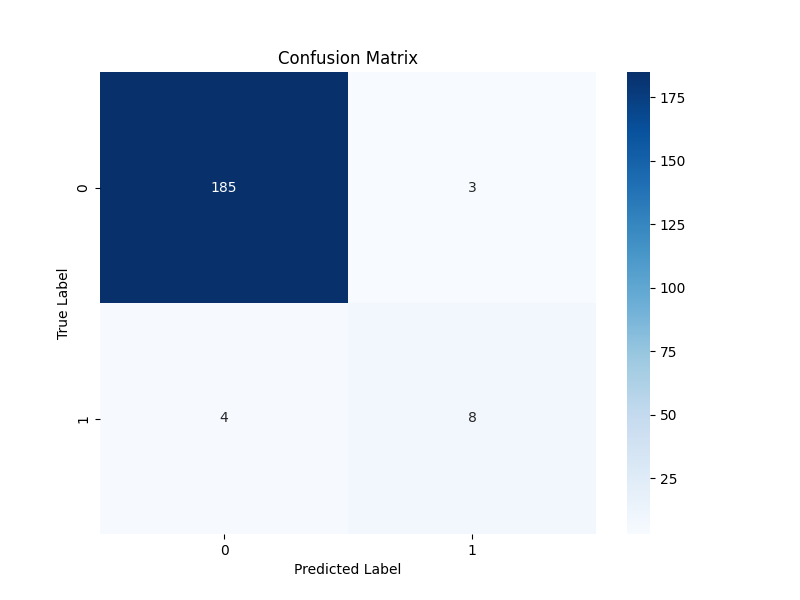
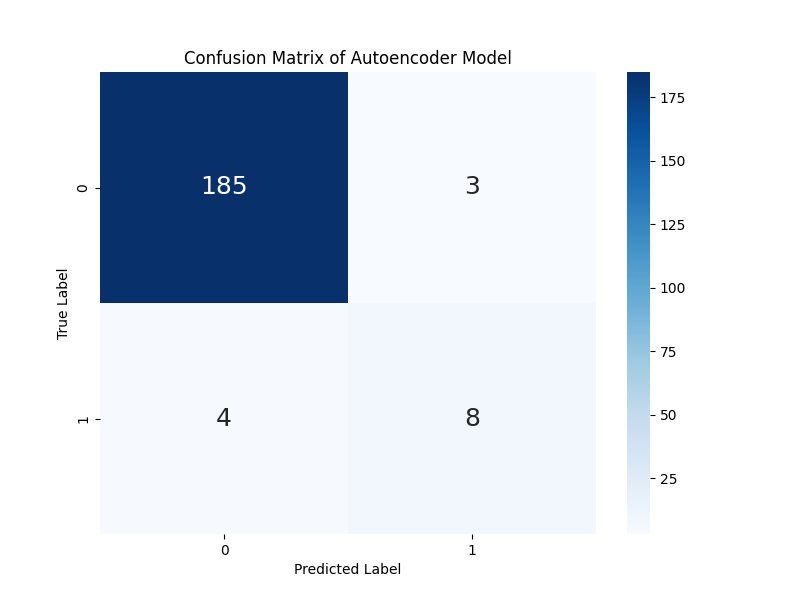
small correction

diff --git a/ModularizedClasses/ForDetecting/utils.py b/ModularizedClasses/ForDetecting/utils.py
@@ -6,24 +6,23 @@ import matplotlib.pyplot as plt
 import seaborn as sns
 from sklearn.metrics import confusion_matrix, f1_score, classification_report
 
-from sklearn.preprocessing import StandardScaler
+from sklearn.preprocessing import StandardScaler, RobustScaler
 
 def get_data(file_path, output_path=None):
     ext = os.path.splitext(file_path)[1].lower()
 
     if ext == ".csv":
+        # İlk 1KB’lık kısmı alıp ayırıcıyı tespit et
+        with open(file_path, 'r', encoding='utf-8') as f:
+            sample = f.read(1024)
+            try:
+                dialect = csv.Sniffer().sniff(sample)
+                sep = dialect.delimiter
+            except csv.Error:
+                sep = ','  # fallback
+
         try:
-            # İlk 1KB’lık kısmı alıp ayırıcıyı tespit et
-            with open(file_path, 'r', encoding='utf-8') as f:
-                sample = f.read(1024)
-                try:
-                    dialect = csv.Sniffer().sniff(sample)
-                    sep = dialect.delimiter
-                except csv.Error:
-                    sep = ','  # fallback
-
             df = pd.read_csv(file_path, encoding="utf-8", sep=sep)
-
         except UnicodeDecodeError:
             df = pd.read_csv(file_path, encoding="ISO-8859-9", sep=sep)
 
@@ -212,13 +211,19 @@ def set_detected_abnormalUsers(df, predictions, label="Test"):
 
 def print_results_generalized(total, normal, anomalies, reconstruction_error):
     print("\n" + "="*50)
-    print("🔍 ANOMALY DETECTION RESULTS BY LSTM AUTOENCODER")
+    print("🔍 ANOMALY DETECTION RESULTS BY AUTOENCODER")
     print("="*50)
     print(f"📊 Total Sequences: {total}")
     print(f"✅ Normal: {normal} ({(normal/total)*100:.2f}%)")
     print(f"⚠ Anomalies: {anomalies} ({(anomalies/total)*100:.2f}%)")
     print(f"📈 Average Error: {np.mean(reconstruction_error):.6f}")
     print("="*50 + "\n")
+    
+def create_windows(data, window_size):
+    windows = []
+    for i in range(len(data) - window_size + 1):
+        windows.append(data[i:i + window_size])
+    return np.array(windows)
     
 ##### THIS IS THE METHOD LOADS FILE AND PREPROCESSES IT #####
 def load_and_preprocess(input_path, output_parquet=None):
@@ -241,7 +246,7 @@ def behavior_analysis(df):
     return scaled_matrix, session_vectors
     
 ##### THIS METHOD DETECTS ABNORMAL USERS #####
-def model_runner(model, scaled_df, session_vectors, threshold=0.452005):
+def model_runner(model, scaled_df, session_vectors, threshold=0.452005, window_size=1):
     """
     Detect abnormal users using a trained autoencoder (LSTM or standard).
     Args:
@@ -262,9 +267,13 @@ def model_runner(model, scaled_df, session_vectors, threshold=0.452005):
         raise ValueError(f"Missing features. Required: {expected_features}")
     data = scaled_df[expected_features].values.astype('float32')
     input_shape = model.input_shape
+    
     if len(input_shape) == 3:
-        print("LSTM model detected - reshaping to 3D")
-        data = np.reshape(data, (data.shape[0], 1, data.shape[1]))
+        print("LSTM model detected - windowing data")
+        if window_size > 1:
+            data = create_windows(data, window_size)
+        else:
+            data = np.reshape(data, (data.shape[0], 1, data.shape[1]))
     else:
         print("Standard autoencoder detected - using 2D shape")
     print(f"Input data shape after reshape: {data.shape}")
@@ -361,8 +370,8 @@ def evaluate_model_performance(Label, DetectedAbnormal):
     
     # Plot confusion matrix
     plt.figure(figsize=(8, 6))
-    sns.heatmap(cm, annot=True, fmt='d', cmap='Blues')
-    plt.title('Confusion Matrix')
+    sns.heatmap(cm, annot=True, fmt='d', cmap='Blues', annot_kws={"size": 18})
+    plt.title('Confusion Matrix of LSTM Autoencoder Model')
     plt.ylabel('True Label')
     plt.xlabel('Predicted Label')
     plt.show()

diff --git a/ModularizedClasses/ForDetecting/main.py b/ModularizedClasses/ForDetecting/main.py
@@ -1,12 +1,12 @@
 import os
 import numpy as np
 from keras.models import load_model
-from utils import abnormal_user_detector
+from utils import abnormal_user_detector, create_comparison_df, evaluate_model_performance
 
 possible_extensions = [".csv", ".xlsx"]
 input_path = None
 for ext in possible_extensions:
-    candidate = f"temp_uploaded{ext}"
+    candidate = f"DatasetGenerator/GeneratingSyntheticLogDatas/TrdTry/Test/Test{ext}"
     if os.path.exists(candidate):
         input_path = candidate
         break
@@ -14,7 +14,7 @@ for ext in possible_extensions:
 if input_path is None:
     raise FileNotFoundError("No input file found (expected temp_uploaded.csv or temp_uploaded.xlsx)")
 
-model_path = r"ModularizedClasses\Model\autoencoder_model.keras"
+model_path = r"ModularizedClasses\Model\lstm_autoencoder_model.keras"
 output_parquet = r"ModularizedClasses\ForDetecting\outputs\Test_processed.parquet"
 threshold = 0.452005
 
@@ -35,3 +35,14 @@ if __name__ == "__main__":
     print(f"Total count: {len(abnormal_users)}")
     for i, user in enumerate(abnormal_users, 1):
         print(f"{i}. {user}")
+        
+     # Gerçek anomali kullanıcılarını oku
+    label_path = r"DatasetGenerator\GeneratingSyntheticLogDatas\TrdTry\Test\Test_AnomalousUsers.txt"
+    with open(label_path, 'r') as f:
+        y_true = [line.strip() for line in f]
+
+    # Karşılaştırma DataFrame'i oluştur
+    comparison_df = create_comparison_df(y_true, abnormal_users)
+
+    # Performans değerlendirmesi ve confusion matrix görselleştirmesi
+    f1, cm = evaluate_model_performance(comparison_df['Label'], comparison_df['DetectedAbnormal'])
